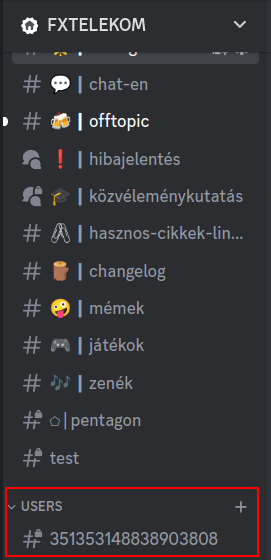
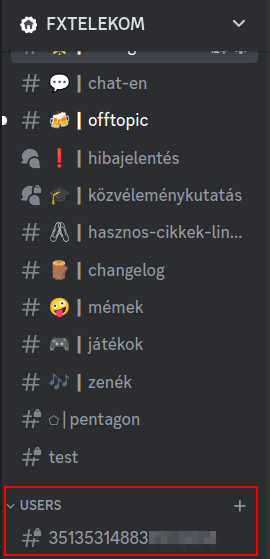
git-authors deleted, some censoring on the imgs

diff --git a/docs/hu/first/first.md b/docs/hu/first/first.md
@@ -7,7 +7,7 @@ Mielőtt belevágnál fontos letisztázni pár dolgot:
 * Csatlakozz a [Discord szerverünkhöz!](https://discord.gg/n2WmGaEn3H)
 
 ## Config igénylés
-Miután beléptél a Discordra, szükséged lesz egy egyedi Wireguard configurációra, ami arra jó, hogy biztonságos módon tudd használni az általunk átirányított szolgáltatásokat. **A forgalom tartalmát még mi sem látjuk!**
+Miután beléptél a Discordra, szükséged lesz egy egyedi Wireguard configurációra, ami arra jó, hogy biztonságos módon tudd használni az általunk átirányított szolgáltatásokat.
 
 
 Nem kell túlgondolni, csak jelezd felénk a [`#beszélgető`]() szobában, hogy szeretnél egy configot, és, amint lehetőségünk lesz, adunk is.
